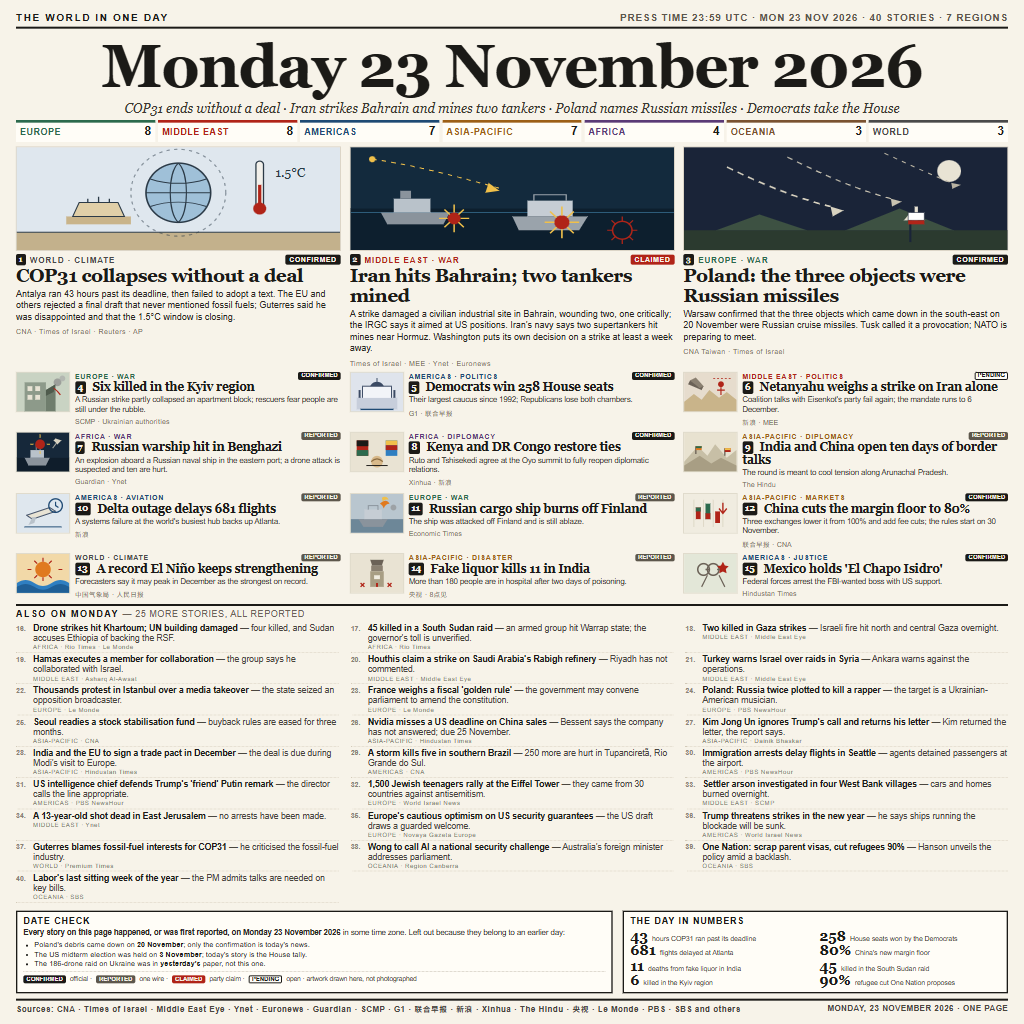
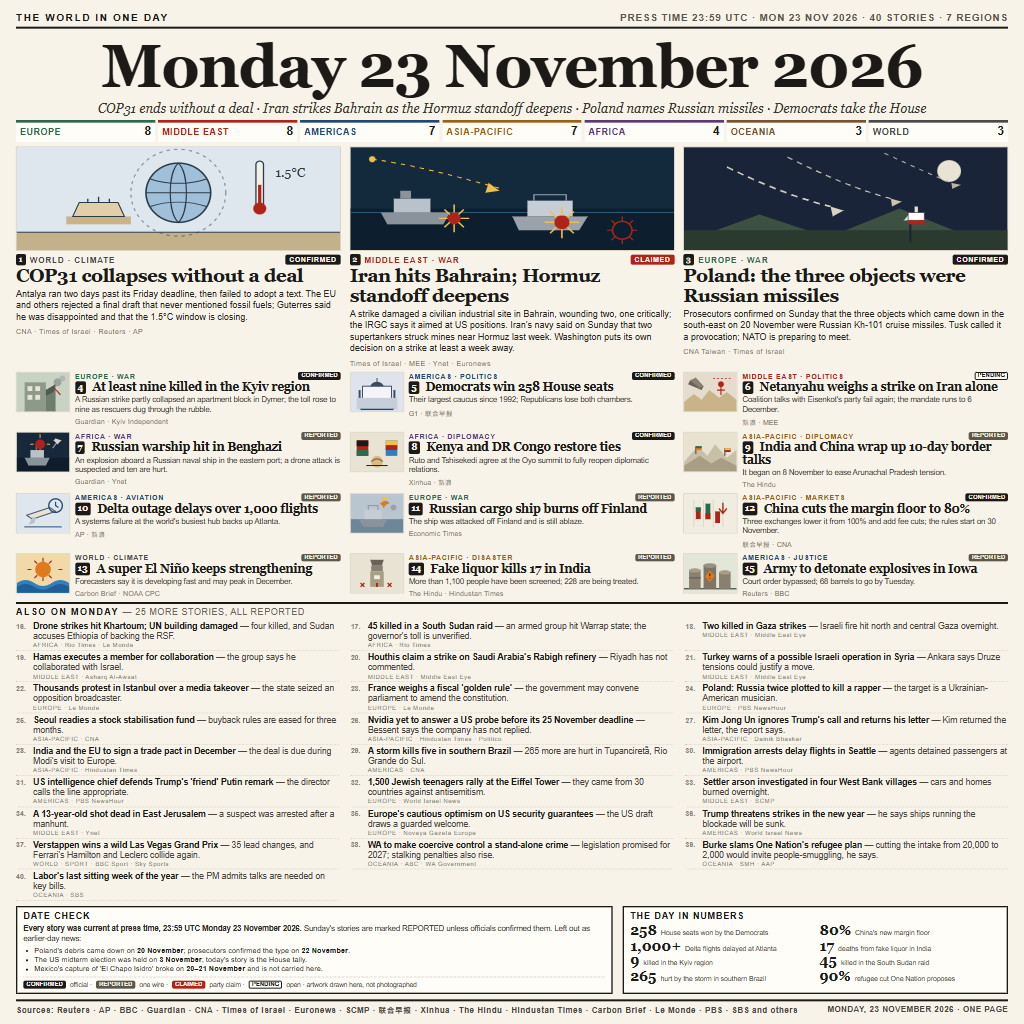
news-image-20261123: fact-check corrections across nine stories

diff --git a/design.html b/design.html
@@ -139,7 +139,7 @@
 
   <div class="masthead">
     <h1>Monday 23 November 2026</h1>
-    <p class="dek">COP31 ends without a deal · Iran strikes Bahrain and mines two tankers · Poland names Russian missiles · Democrats take the House</p>
+    <p class="dek">COP31 ends without a deal · Iran strikes Bahrain as the Hormuz standoff deepens · Poland names Russian missiles · Democrats take the House</p>
   </div>
 
   <div class="regions">
@@ -175,7 +175,7 @@
       </div>
       <div class="kicker"><span><b class="num">1</b>WORLD · CLIMATE</span><span class="chip">CONFIRMED</span></div>
       <h2>COP31 collapses without a deal</h2>
-      <p>Antalya ran 43 hours past its deadline, then failed to adopt a text. The EU and others rejected a final draft that never mentioned fossil fuels; Guterres said he was disappointed and that the 1.5°C window is closing.</p>
+      <p>Antalya ran two days past its Friday deadline, then failed to adopt a text. The EU and others rejected a final draft that never mentioned fossil fuels; Guterres said he was disappointed and that the 1.5°C window is closing.</p>
       <div class="src">CNA · Times of Israel · Reuters · AP</div>
     </article>
 
@@ -203,8 +203,8 @@
         </svg>
       </div>
       <div class="kicker"><span><b class="num">2</b>MIDDLE EAST · WAR</span><span class="chip claimed">CLAIMED</span></div>
-      <h2>Iran hits Bahrain; two tankers mined</h2>
-      <p>A strike damaged a civilian industrial site in Bahrain, wounding two, one critically; the IRGC says it aimed at US positions. Iran's navy says two supertankers hit mines near Hormuz. Washington puts its own decision on a strike at least a week away.</p>
+      <h2>Iran hits Bahrain; Hormuz standoff deepens</h2>
+      <p>A strike damaged a civilian industrial site in Bahrain, wounding two, one critically; the IRGC says it aimed at US positions. Iran's navy said on Sunday that two supertankers struck mines near Hormuz last week. Washington puts its own decision on a strike at least a week away.</p>
       <div class="src">Times of Israel · MEE · Ynet · Euronews</div>
     </article>
 
@@ -231,7 +231,7 @@
       </div>
       <div class="kicker"><span><b class="num">3</b>EUROPE · WAR</span><span class="chip">CONFIRMED</span></div>
       <h2>Poland: the three objects were Russian missiles</h2>
-      <p>Warsaw confirmed that the three objects which came down in the south-east on 20 November were Russian cruise missiles. Tusk called it a provocation; NATO is preparing to meet.</p>
+      <p>Prosecutors confirmed on Sunday that the three objects which came down in the south-east on 20 November were Russian Kh-101 cruise missiles. Tusk called it a provocation; NATO is preparing to meet.</p>
       <div class="src">CNA Taiwan · Times of Israel</div>
     </article>
 
@@ -253,9 +253,9 @@
       </svg></div>
       <div>
         <div class="k"><span>EUROPE · WAR</span><span class="chip confirmed">CONFIRMED</span></div>
-        <h3><span class="num">4</span> Six killed in the Kyiv region</h3>
-        <p>A Russian strike partly collapsed an apartment block; rescuers fear people are still under the rubble.</p>
-        <div class="src">SCMP · Ukrainian authorities</div>
+        <h3><span class="num">4</span> At least nine killed in the Kyiv region</h3>
+        <p>A Russian strike partly collapsed an apartment block in Dymer; the toll rose to nine as rescuers dug through the rubble.</p>
+        <div class="src">Guardian · Kyiv Independent</div>
       </div>
     </article>
 
@@ -343,8 +343,8 @@
       </svg></div>
       <div>
         <div class="k"><span>ASIA-PACIFIC · DIPLOMACY</span><span class="chip reported">REPORTED</span></div>
-        <h3><span class="num">9</span> India and China open ten days of border talks</h3>
-        <p>The round is meant to cool tension along Arunachal Pradesh.</p>
+        <h3><span class="num">9</span> India and China wrap up 10-day border talks</h3>
+        <p>It began on 8 November to ease Arunachal Pradesh tension.</p>
         <div class="src">The Hindu</div>
       </div>
     </article>
@@ -360,9 +360,9 @@
       </svg></div>
       <div>
         <div class="k"><span>AMERICAS · AVIATION</span><span class="chip reported">REPORTED</span></div>
-        <h3><span class="num">10</span> Delta outage delays 681 flights</h3>
+        <h3><span class="num">10</span> Delta outage delays over 1,000 flights</h3>
         <p>A systems failure at the world's busiest hub backs up Atlanta.</p>
-        <div class="src">新浪</div>
+        <div class="src">AP · 新浪</div>
       </div>
     </article>
 
@@ -412,9 +412,9 @@
       </svg></div>
       <div>
         <div class="k"><span>WORLD · CLIMATE</span><span class="chip reported">REPORTED</span></div>
-        <h3><span class="num">13</span> A record El Niño keeps strengthening</h3>
-        <p>Forecasters say it may peak in December as the strongest on record.</p>
-        <div class="src">中国气象局 · 人民日报</div>
+        <h3><span class="num">13</span> A super El Niño keeps strengthening</h3>
+        <p>Forecasters say it is developing fast and may peak in December.</p>
+        <div class="src">Carbon Brief · NOAA CPC</div>
       </div>
     </article>
 
@@ -431,26 +431,31 @@
       </svg></div>
       <div>
         <div class="k"><span>ASIA-PACIFIC · DISASTER</span><span class="chip reported">REPORTED</span></div>
-        <h3><span class="num">14</span> Fake liquor kills 11 in India</h3>
-        <p>More than 180 people are in hospital after two days of poisoning.</p>
-        <div class="src">央视 · 8点见</div>
+        <h3><span class="num">14</span> Fake liquor kills 17 in India</h3>
+        <p>More than 1,100 people have been screened; 228 are being treated.</p>
+        <div class="src">The Hindu · Hindustan Times</div>
       </div>
     </article>
 
     <article class="card am">
       <div class="art"><svg viewBox="0 0 54 40">
         <rect width="54" height="40" fill="#e3e7d8"/>
-        <circle cx="20" cy="16" r="6" fill="none" stroke="#6b6257" stroke-width="1.6"/>
-        <circle cx="30" cy="16" r="6" fill="none" stroke="#6b6257" stroke-width="1.6"/>
-        <path d="M26 16h-4M34 16h4" stroke="#6b6257" stroke-width="1.6"/>
-        <path d="M24 22l-6 12M36 22l6 12" stroke="#6b6257" stroke-width="1.2"/>
-        <path d="M40 8l2 4 4 .6-3 3 .8 4.4-3.8-2-3.8 2 .8-4.4-3-3 4-.6z" fill="#b02418"/>
+        <path d="M0 36h54" stroke="#1b1a17" stroke-width="1"/>
+        <rect x="5" y="17" width="12" height="19" fill="#8a8071"/>
+        <ellipse cx="11" cy="17" rx="6" ry="2.2" fill="#a89e84"/>
+        <rect x="5" y="24" width="12" height="1.4" fill="#6b6257"/>
+        <rect x="20" y="12" width="13" height="24" fill="#7d7463"/>
+        <ellipse cx="26.5" cy="12" rx="6.5" ry="2.4" fill="#9a9080"/>
+        <path d="M26.5 17l5 6-5 6-5-6z" fill="#e07a1f"/>
+        <path d="M26.5 20v3M26.5 25.2v.6" stroke="#1b1a17" stroke-width="1.1"/>
+        <rect x="36" y="19" width="12" height="17" fill="#8a8071"/>
+        <ellipse cx="42" cy="19" rx="6" ry="2.2" fill="#a89e84"/>
       </svg></div>
       <div>
-        <div class="k"><span>AMERICAS · JUSTICE</span><span class="chip confirmed">CONFIRMED</span></div>
-        <h3><span class="num">15</span> Mexico holds 'El Chapo Isidro'</h3>
-        <p>Federal forces arrest the FBI-wanted boss with US support.</p>
-        <div class="src">Hindustan Times</div>
+        <div class="k"><span>AMERICAS · JUSTICE</span><span class="chip reported">REPORTED</span></div>
+        <h3><span class="num">15</span> Army to detonate explosives in Iowa</h3>
+        <p>Court order bypassed; 68 barrels to go by Tuesday.</p>
+        <div class="src">Reuters · BBC</div>
       </div>
     </article>
 
@@ -465,25 +470,25 @@
       <div class="brief"><div class="n">18</div><div><div class="t">Two killed in Gaza strikes <span>— Israeli fire hit north and central Gaza overnight.</span></div><div class="s">MIDDLE EAST · Middle East Eye</div></div></div>
       <div class="brief"><div class="n">19</div><div><div class="t">Hamas executes a member for collaboration <span>— the group says he collaborated with Israel.</span></div><div class="s">MIDDLE EAST · Asharq Al-Awsat</div></div></div>
       <div class="brief"><div class="n">20</div><div><div class="t">Houthis claim a strike on Saudi Arabia's Rabigh refinery <span>— Riyadh has not commented.</span></div><div class="s">MIDDLE EAST · Middle East Eye</div></div></div>
-      <div class="brief"><div class="n">21</div><div><div class="t">Turkey warns Israel over raids in Syria <span>— Ankara warns against the operations.</span></div><div class="s">MIDDLE EAST · Middle East Eye</div></div></div>
+      <div class="brief"><div class="n">21</div><div><div class="t">Turkey warns of a possible Israeli operation in Syria <span>— Ankara says Druze tensions could justify a move.</span></div><div class="s">MIDDLE EAST · Middle East Eye</div></div></div>
       <div class="brief"><div class="n">22</div><div><div class="t">Thousands protest in Istanbul over a media takeover <span>— the state seized an opposition broadcaster.</span></div><div class="s">EUROPE · Le Monde</div></div></div>
       <div class="brief"><div class="n">23</div><div><div class="t">France weighs a fiscal 'golden rule' <span>— the government may convene parliament to amend the constitution.</span></div><div class="s">EUROPE · Le Monde</div></div></div>
       <div class="brief"><div class="n">24</div><div><div class="t">Poland: Russia twice plotted to kill a rapper <span>— the target is a Ukrainian-American musician.</span></div><div class="s">EUROPE · PBS NewsHour</div></div></div>
       <div class="brief"><div class="n">25</div><div><div class="t">Seoul readies a stock stabilisation fund <span>— buyback rules are eased for three months.</span></div><div class="s">ASIA-PACIFIC · CNA</div></div></div>
-      <div class="brief"><div class="n">26</div><div><div class="t">Nvidia misses a US deadline on China sales <span>— Bessent says the company has not answered; due 25 November.</span></div><div class="s">ASIA-PACIFIC · Hindustan Times</div></div></div>
+      <div class="brief"><div class="n">26</div><div><div class="t">Nvidia yet to answer a US probe before its 25 November deadline <span>— Bessent says the company has not replied.</span></div><div class="s">ASIA-PACIFIC · Hindustan Times · Politico</div></div></div>
       <div class="brief"><div class="n">27</div><div><div class="t">Kim Jong Un ignores Trump's call and returns his letter <span>— Kim returned the letter, the report says.</span></div><div class="s">ASIA-PACIFIC · Dainik Bhaskar</div></div></div>
       <div class="brief"><div class="n">28</div><div><div class="t">India and the EU to sign a trade pact in December <span>— the deal is due during Modi's visit to Europe.</span></div><div class="s">ASIA-PACIFIC · Hindustan Times</div></div></div>
-      <div class="brief"><div class="n">29</div><div><div class="t">A storm kills five in southern Brazil <span>— 250 more are hurt in Tupanciretã, Rio Grande do Sul.</span></div><div class="s">AMERICAS · CNA</div></div></div>
+      <div class="brief"><div class="n">29</div><div><div class="t">A storm kills five in southern Brazil <span>— 265 more are hurt in Tupanciretã, Rio Grande do Sul.</span></div><div class="s">AMERICAS · CNA</div></div></div>
       <div class="brief"><div class="n">30</div><div><div class="t">Immigration arrests delay flights in Seattle <span>— agents detained passengers at the airport.</span></div><div class="s">AMERICAS · PBS NewsHour</div></div></div>
       <div class="brief"><div class="n">31</div><div><div class="t">US intelligence chief defends Trump's 'friend' Putin remark <span>— the director calls the line appropriate.</span></div><div class="s">AMERICAS · PBS NewsHour</div></div></div>
       <div class="brief"><div class="n">32</div><div><div class="t">1,500 Jewish teenagers rally at the Eiffel Tower <span>— they came from 30 countries against antisemitism.</span></div><div class="s">EUROPE · World Israel News</div></div></div>
       <div class="brief"><div class="n">33</div><div><div class="t">Settler arson investigated in four West Bank villages <span>— cars and homes burned overnight.</span></div><div class="s">MIDDLE EAST · SCMP</div></div></div>
-      <div class="brief"><div class="n">34</div><div><div class="t">A 13-year-old shot dead in East Jerusalem <span>— no arrests have been made.</span></div><div class="s">MIDDLE EAST · Ynet</div></div></div>
+      <div class="brief"><div class="n">34</div><div><div class="t">A 13-year-old shot dead in East Jerusalem <span>— a suspect was arrested after a manhunt.</span></div><div class="s">MIDDLE EAST · Ynet</div></div></div>
       <div class="brief"><div class="n">35</div><div><div class="t">Europe's cautious optimism on US security guarantees <span>— the US draft draws a guarded welcome.</span></div><div class="s">EUROPE · Novaya Gazeta Europe</div></div></div>
       <div class="brief"><div class="n">36</div><div><div class="t">Trump threatens strikes in the new year <span>— he says ships running the blockade will be sunk.</span></div><div class="s">AMERICAS · World Israel News</div></div></div>
-      <div class="brief"><div class="n">37</div><div><div class="t">Guterres blames fossil-fuel interests for COP31 <span>— he criticised the fossil-fuel industry.</span></div><div class="s">WORLD · Premium Times</div></div></div>
-      <div class="brief"><div class="n">38</div><div><div class="t">Wong to call AI a national security challenge <span>— Australia's foreign minister addresses parliament.</span></div><div class="s">OCEANIA · Region Canberra</div></div></div>
-      <div class="brief"><div class="n">39</div><div><div class="t">One Nation: scrap parent visas, cut refugees 90% <span>— Hanson unveils the policy amid a backlash.</span></div><div class="s">OCEANIA · SBS</div></div></div>
+      <div class="brief"><div class="n">37</div><div><div class="t">Verstappen wins a wild Las Vegas Grand Prix <span>— 35 lead changes, and Ferrari's Hamilton and Leclerc collide again.</span></div><div class="s">WORLD · SPORT · BBC Sport · Sky Sports</div></div></div>
+      <div class="brief"><div class="n">38</div><div><div class="t">WA to make coercive control a stand-alone crime <span>— legislation promised for 2027; stalking penalties also rise.</span></div><div class="s">OCEANIA · ABC · WA Government</div></div></div>
+      <div class="brief"><div class="n">39</div><div><div class="t">Burke slams One Nation's refugee plan <span>— cutting the intake from 20,000 to 2,000 would invite people-smuggling, he says.</span></div><div class="s">OCEANIA · SMH · AAP</div></div></div>
       <div class="brief"><div class="n">40</div><div><div class="t">Labor's last sitting week of the year <span>— the PM admits talks are needed on key bills.</span></div><div class="s">OCEANIA · SBS</div></div></div>
 
     </div>
@@ -492,29 +497,29 @@
   <div class="bottom">
     <div class="panel datecheck">
       <h5>DATE CHECK</h5>
-      <p><b>Every story on this page happened, or was first reported, on Monday 23 November 2026</b> in some time zone. Left out because they belong to an earlier day:</p>
+      <p><b>Every story was current at press time, 23:59 UTC Monday 23 November 2026.</b> Sunday's stories are marked REPORTED unless officials confirmed them. Left out as earlier-day news:</p>
       <ul>
-        <li>Poland's debris came down on <b>20 November</b>; only the confirmation is today's news.</li>
+        <li>Poland's debris came down on <b>20 November</b>; prosecutors confirmed the type on <b>22 November</b>.</li>
         <li>The US midterm election was held on <b>3 November</b>; today's story is the House tally.</li>
-        <li>The 186-drone raid on Ukraine was in <b>yesterday's</b> paper, not this one.</li>
+        <li>Mexico's capture of 'El Chapo Isidro' broke on <b>20–21 November</b> and is not carried here.</li>
       </ul>
       <div class="legend"><span class="chip">CONFIRMED</span>official · <span class="chip reported">REPORTED</span>one wire · <span class="chip claimed">CLAIMED</span>party claim · <span class="chip pending">PENDING</span>open · artwork drawn here, not photographed</div>
     </div>
     <div class="panel numbers">
       <h5 style="grid-column:1/-1">THE DAY IN NUMBERS</h5>
-      <div><b>43</b><span>hours COP31 ran past its deadline</span></div>
       <div><b>258</b><span>House seats won by the Democrats</span></div>
-      <div><b>681</b><span>flights delayed at Atlanta</span></div>
       <div><b>80%</b><span>China's new margin floor</span></div>
-      <div><b>11</b><span>deaths from fake liquor in India</span></div>
+      <div><b>1,000+</b><span>Delta flights delayed at Atlanta</span></div>
+      <div><b>17</b><span>deaths from fake liquor in India</span></div>
+      <div><b>9</b><span>killed in the Kyiv region</span></div>
       <div><b>45</b><span>killed in the South Sudan raid</span></div>
-      <div><b>6</b><span>killed in the Kyiv region</span></div>
+      <div><b>265</b><span>hurt by the storm in southern Brazil</span></div>
       <div><b>90%</b><span>refugee cut One Nation proposes</span></div>
     </div>
   </div>
 
   <div class="footer">
-    <span>Sources: CNA · Times of Israel · Middle East Eye · Ynet · Euronews · Guardian · SCMP · G1 · 联合早报 · 新浪 · Xinhua · The Hindu · 央视 · Le Monde · PBS · SBS and others</span>
+    <span>Sources: Reuters · AP · BBC · Guardian · CNA · Times of Israel · Euronews · SCMP · 联合早报 · Xinhua · The Hindu · Hindustan Times · Carbon Brief · Le Monde · PBS · SBS and others</span>
     <span>MONDAY, 23 NOVEMBER 2026 · ONE PAGE</span>
   </div>
 
